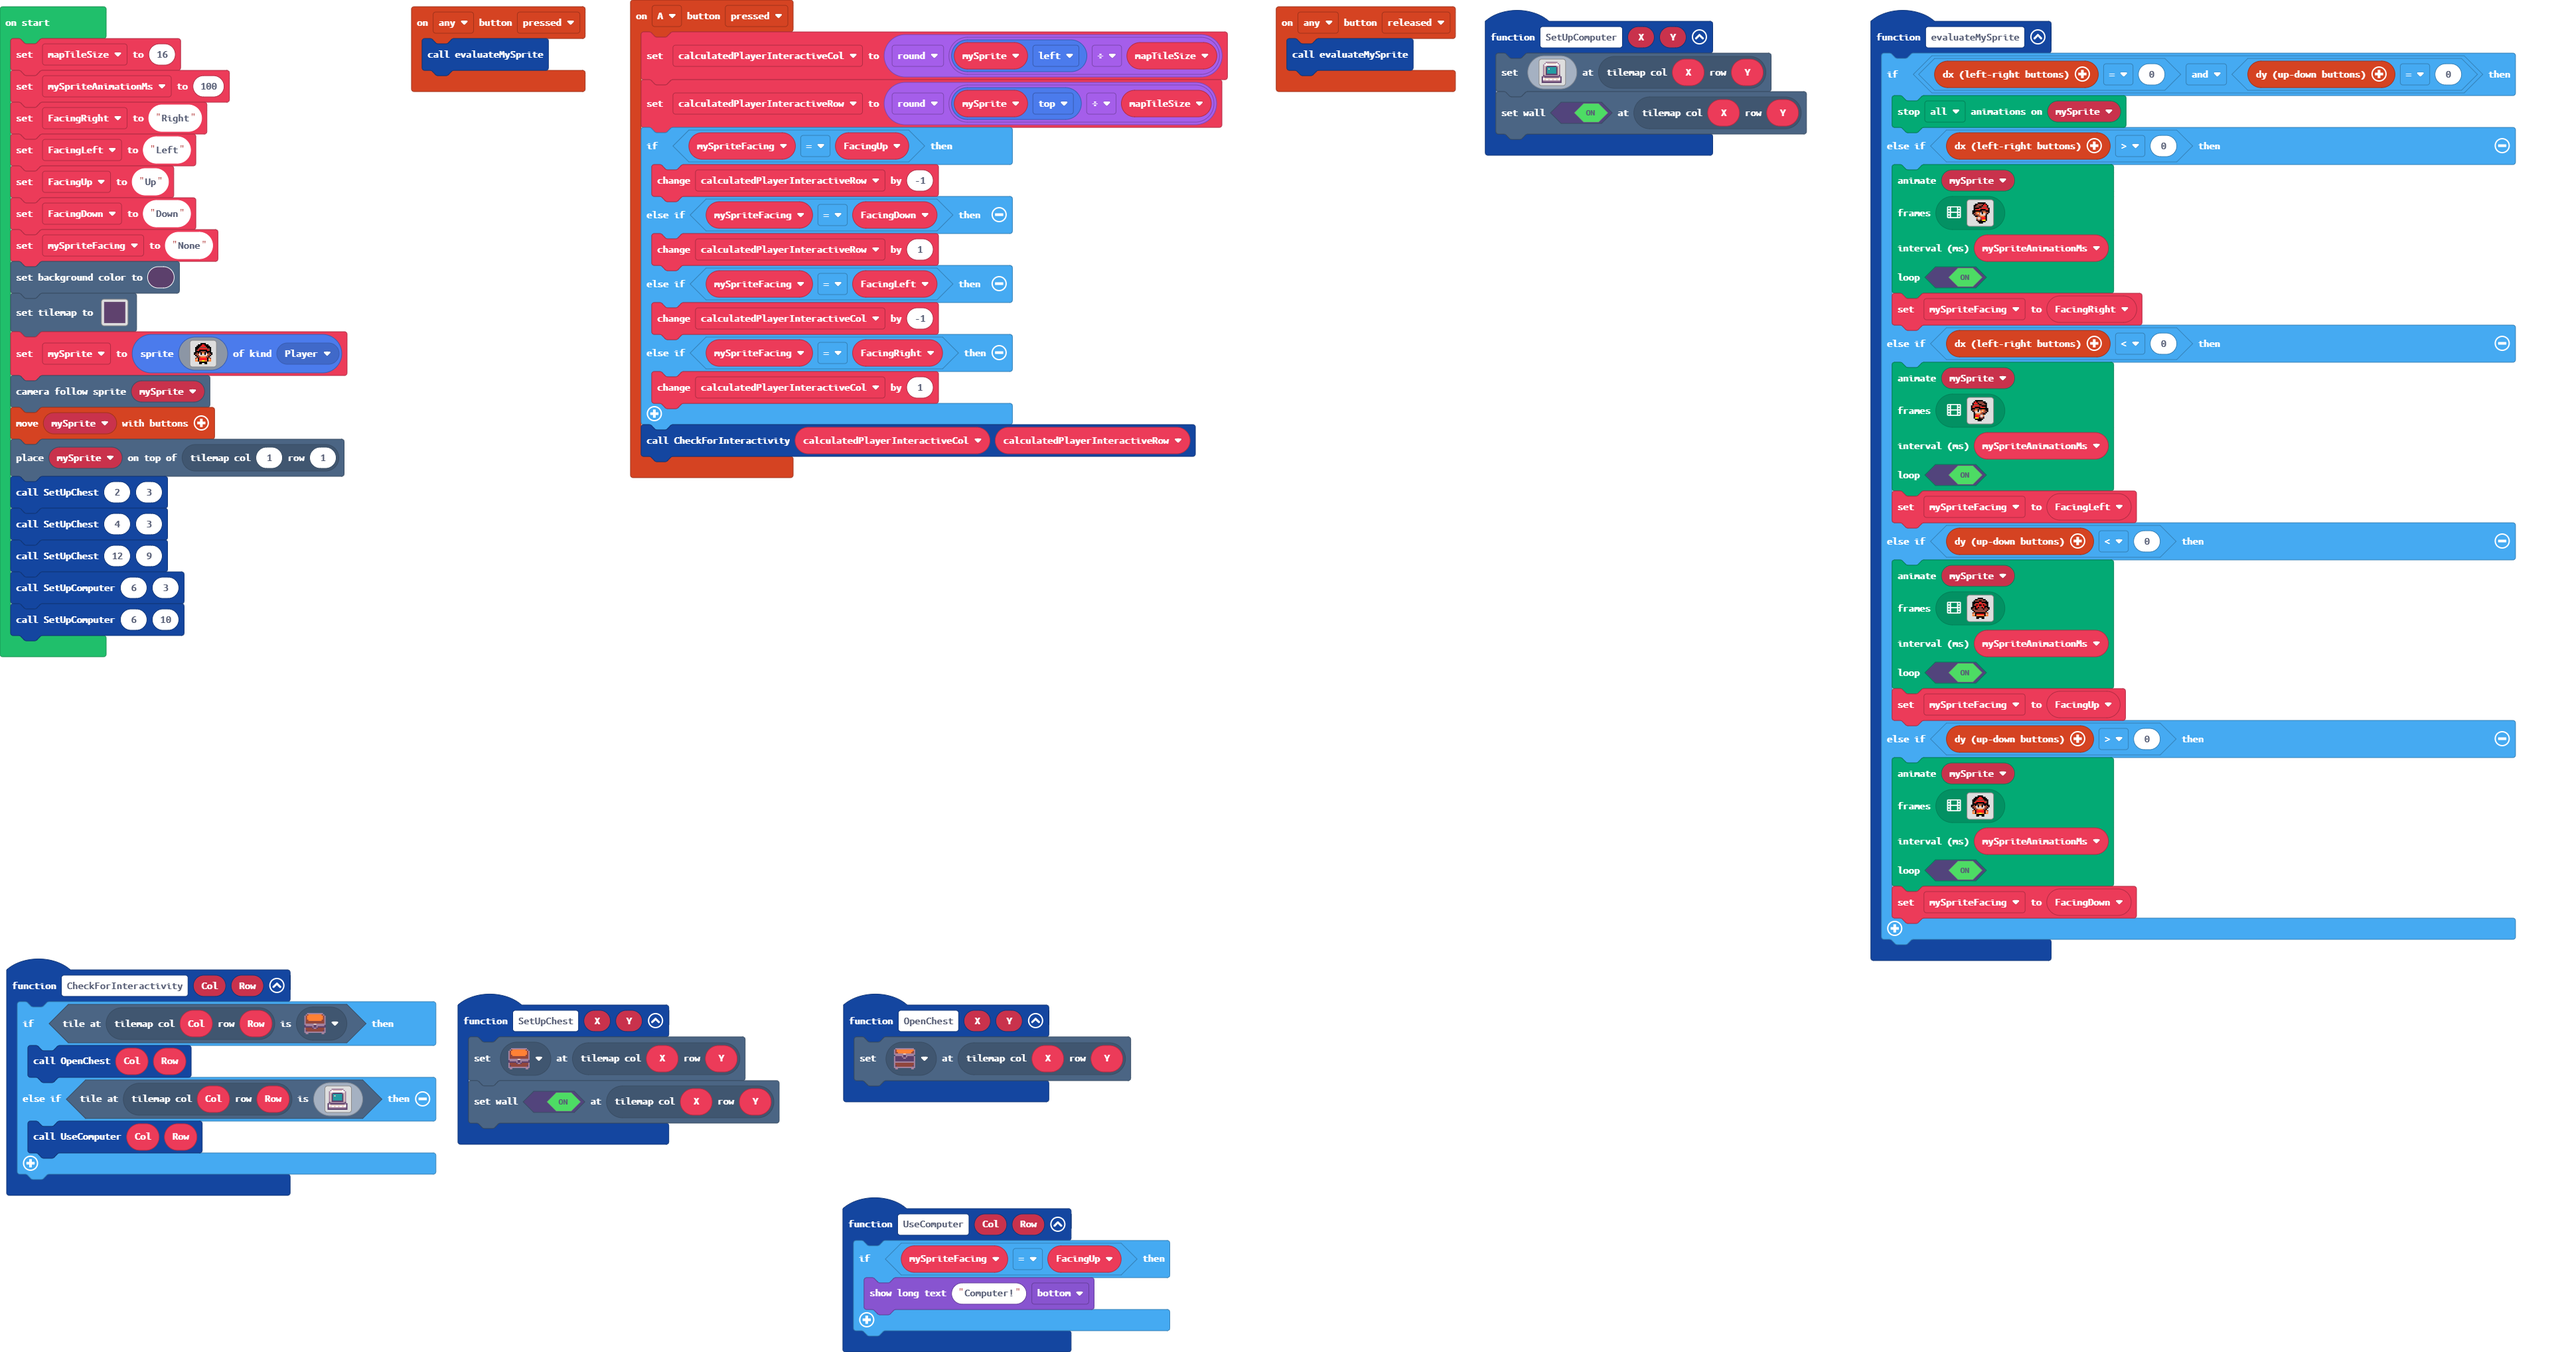
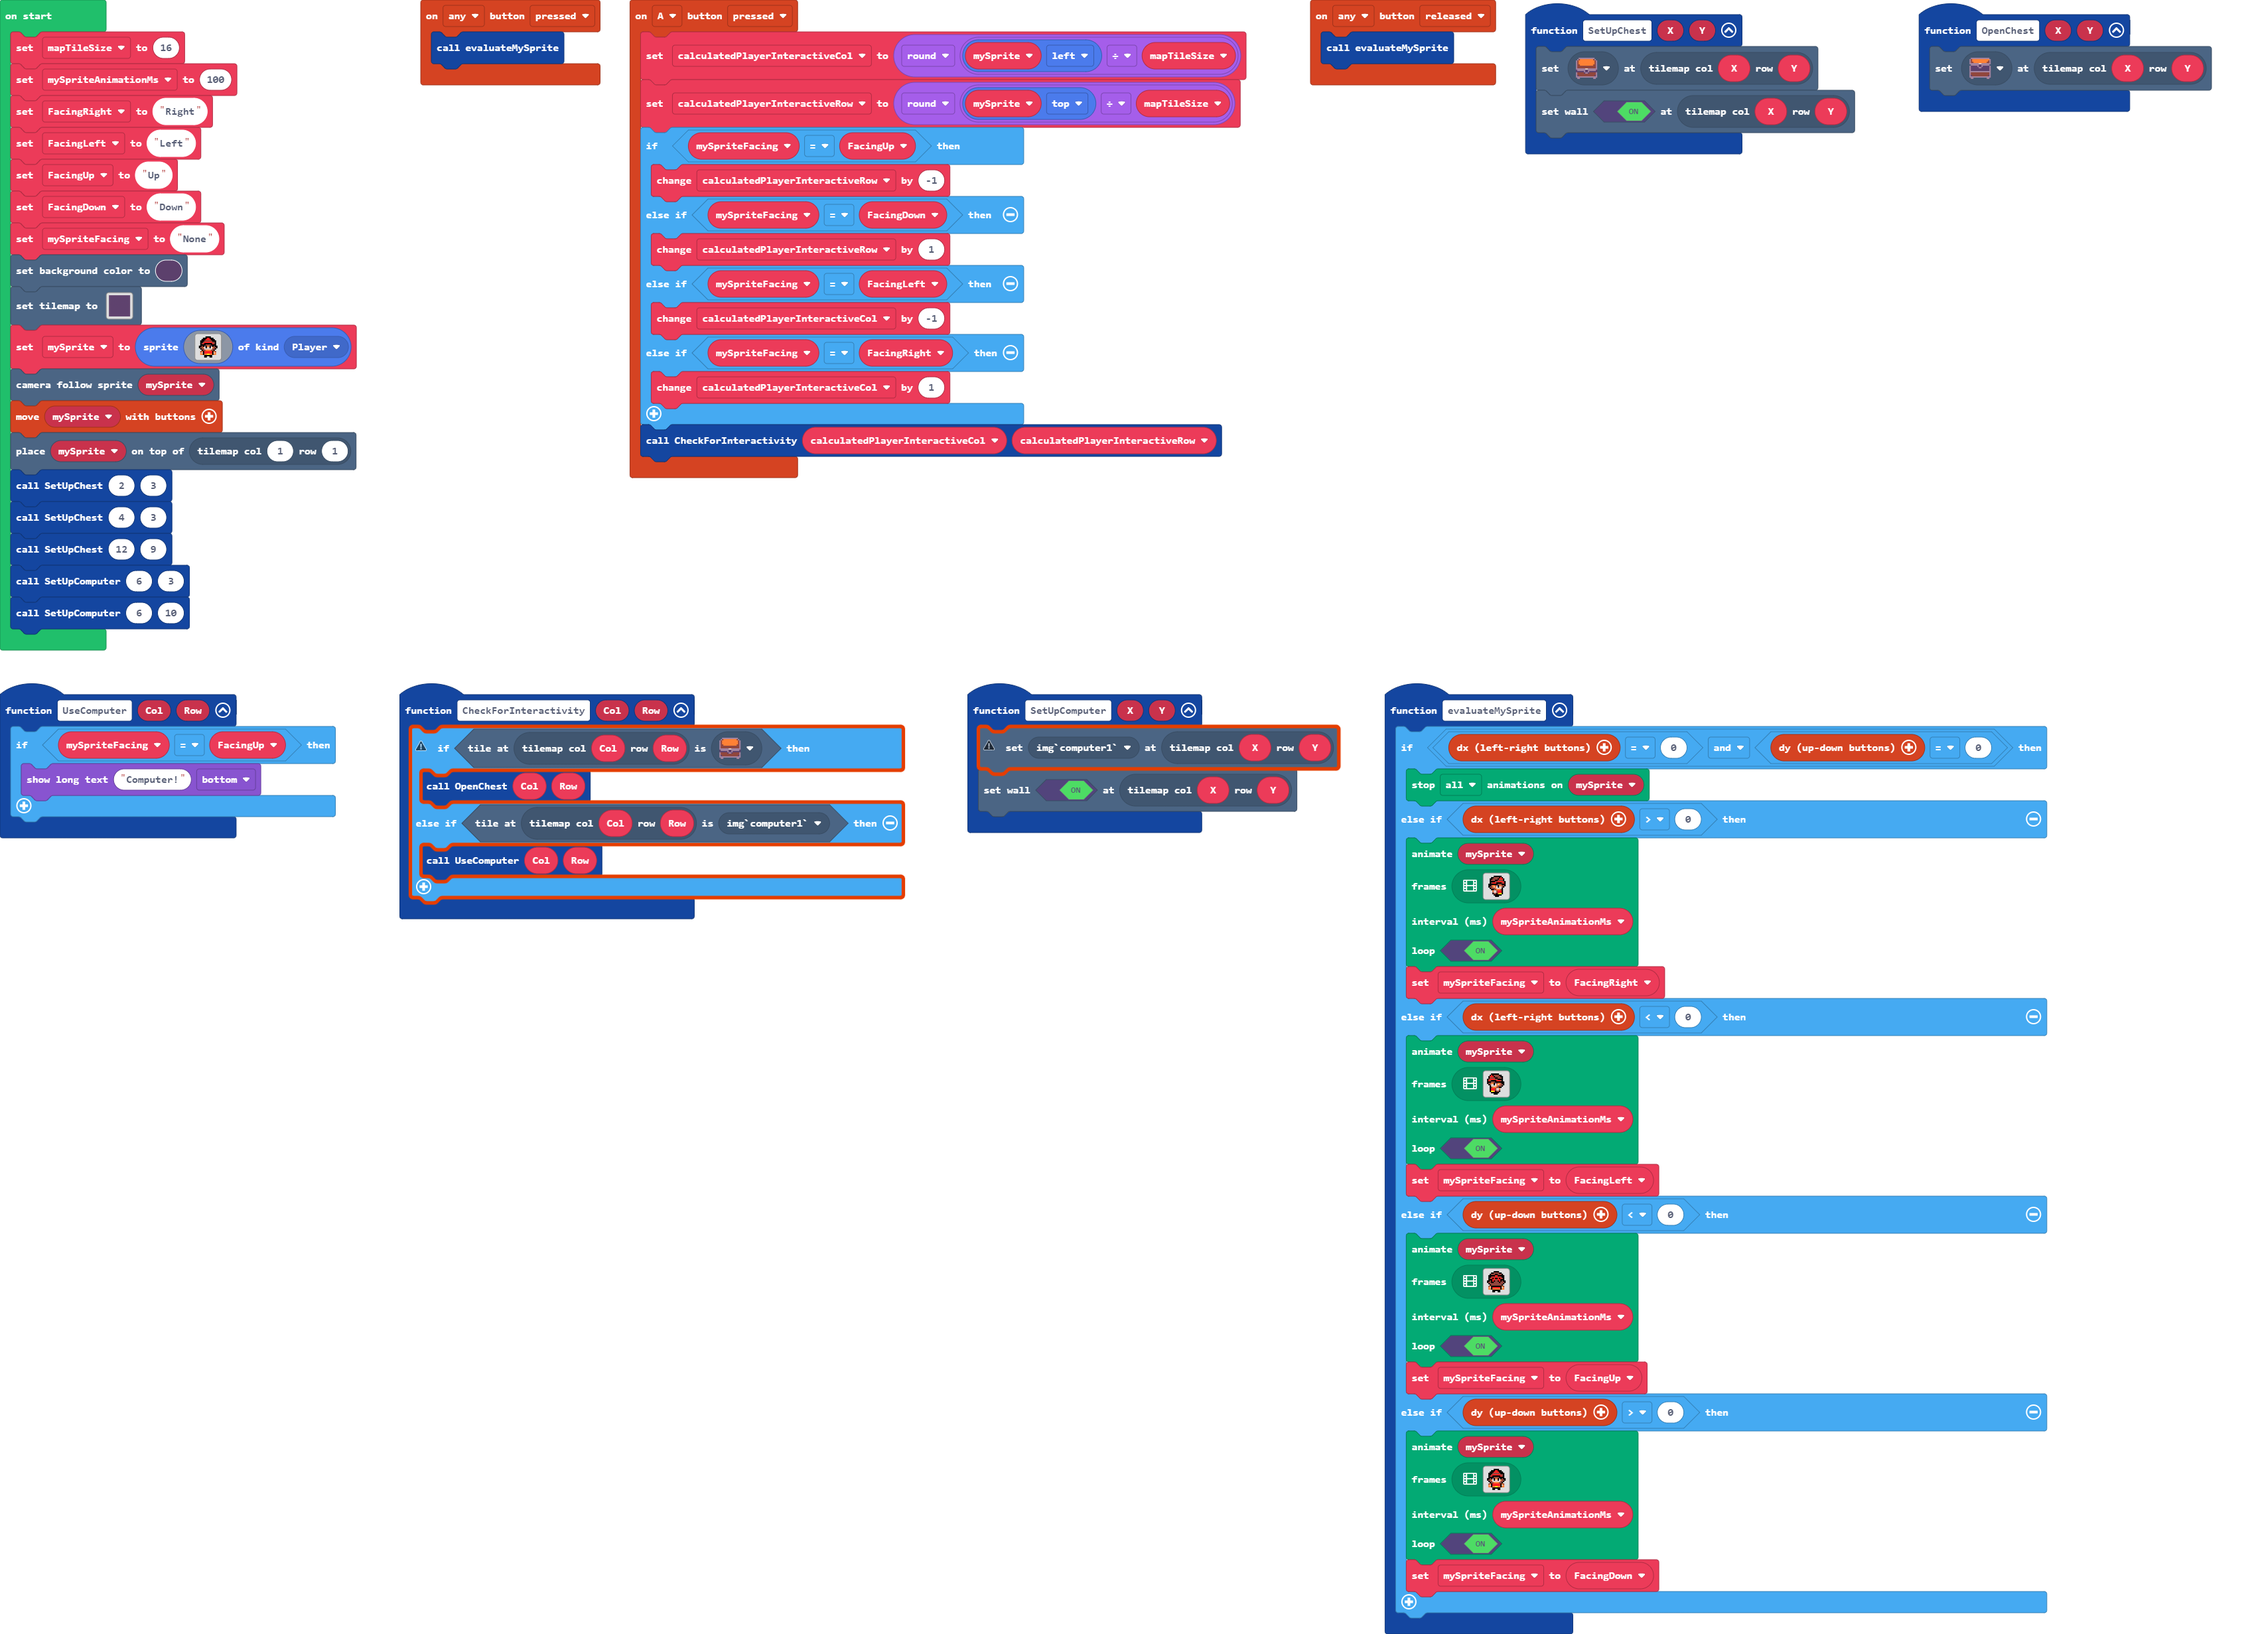
fixing computer image

diff --git a/tilemap.g.ts b/tilemap.g.ts
@@ -66,44 +66,6 @@ namespace myTiles {
 . . . . . . . . . . . . . . . . 
 . . . . . . . . . . . . . . . . 
 `, [myTiles.transparency16], TileScale.Sixteen);
-            case "level4":
-            case "level4":return tiles.createTilemap(hex`1000100000000000000000000000000000000000000000000000000000000000000000000000000000000000000000000000000000000000000000000000000000000000000000000000000000000000000000000000000000000000000000000000000000000000000000000000000000000000000000000000000000000000000000000000000000000000000000000000000000000000000000000000000000000000000000000000000000000000000000000000000000000000000000000000000000000000000000000000000000000000000000000000000000000000000000000000000000000000000000000000000000000000000000000000000000000000`, img`
-. . . . . . . . . . . . . . . . 
-. . . . . . . . . . . . . . . . 
-. . . . . . . . . . . . . . . . 
-. . . . . . . . . . . . . . . . 
-. . . . . . . . . . . . . . . . 
-. . . . . . . . . . . . . . . . 
-. . . . . . . . . . . . . . . . 
-. . . . . . . . . . . . . . . . 
-. . . . . . . . . . . . . . . . 
-. . . . . . . . . . . . . . . . 
-. . . . . . . . . . . . . . . . 
-. . . . . . . . . . . . . . . . 
-. . . . . . . . . . . . . . . . 
-. . . . . . . . . . . . . . . . 
-. . . . . . . . . . . . . . . . 
-. . . . . . . . . . . . . . . . 
-`, [myTiles.transparency16], TileScale.Sixteen);
-            case "level5":
-            case "level5":return tiles.createTilemap(hex`1000100000000000000000000000000000000000000000000000000000000000000000000000000000000000000000000000000000000000000000000000000000000000000000000000000000000000000000000000000000000000000000000000000000000000000000000000000000000000000000000000000000000000000000000000000000000000000000000000000000000000000000000000000000000000000000000000000000000000000000000000000000000000000000000000000000000000000000000000000000000000000000000000000000000000000000000000000000000000000000000000000000000000000000000000000000000000`, img`
-. . . . . . . . . . . . . . . . 
-. . . . . . . . . . . . . . . . 
-. . . . . . . . . . . . . . . . 
-. . . . . . . . . . . . . . . . 
-. . . . . . . . . . . . . . . . 
-. . . . . . . . . . . . . . . . 
-. . . . . . . . . . . . . . . . 
-. . . . . . . . . . . . . . . . 
-. . . . . . . . . . . . . . . . 
-. . . . . . . . . . . . . . . . 
-. . . . . . . . . . . . . . . . 
-. . . . . . . . . . . . . . . . 
-. . . . . . . . . . . . . . . . 
-. . . . . . . . . . . . . . . . 
-. . . . . . . . . . . . . . . . 
-. . . . . . . . . . . . . . . . 
-`, [myTiles.transparency16], TileScale.Sixteen);
         }
         return null;
     })

diff --git a/main.ts b/main.ts
@@ -36,12 +36,12 @@ function UseComputer (Col: number, Row: number) {
 function CheckForInteractivity (Col: number, Row: number) {
     if (tiles.tileAtLocationEquals(tiles.getTileLocation(Col, Row), assets.tile`chestClosed`)) {
         OpenChest(Col, Row)
-    } else if (tiles.tileAtLocationEquals(tiles.getTileLocation(Col, Row), assets.image`computer1`)) {
+    } else if (tiles.tileAtLocationEquals(tiles.getTileLocation(Col, Row), img`computer1`)) {
         UseComputer(Col, Row)
     }
 }
 function SetUpComputer (X: number, Y: number) {
-    tiles.setTileAt(tiles.getTileLocation(X, Y), assets.image`computer1`)
+    tiles.setTileAt(tiles.getTileLocation(X, Y), img`computer1`)
     tiles.setWallAt(tiles.getTileLocation(X, Y), true)
 }
 function evaluateMySprite () {
